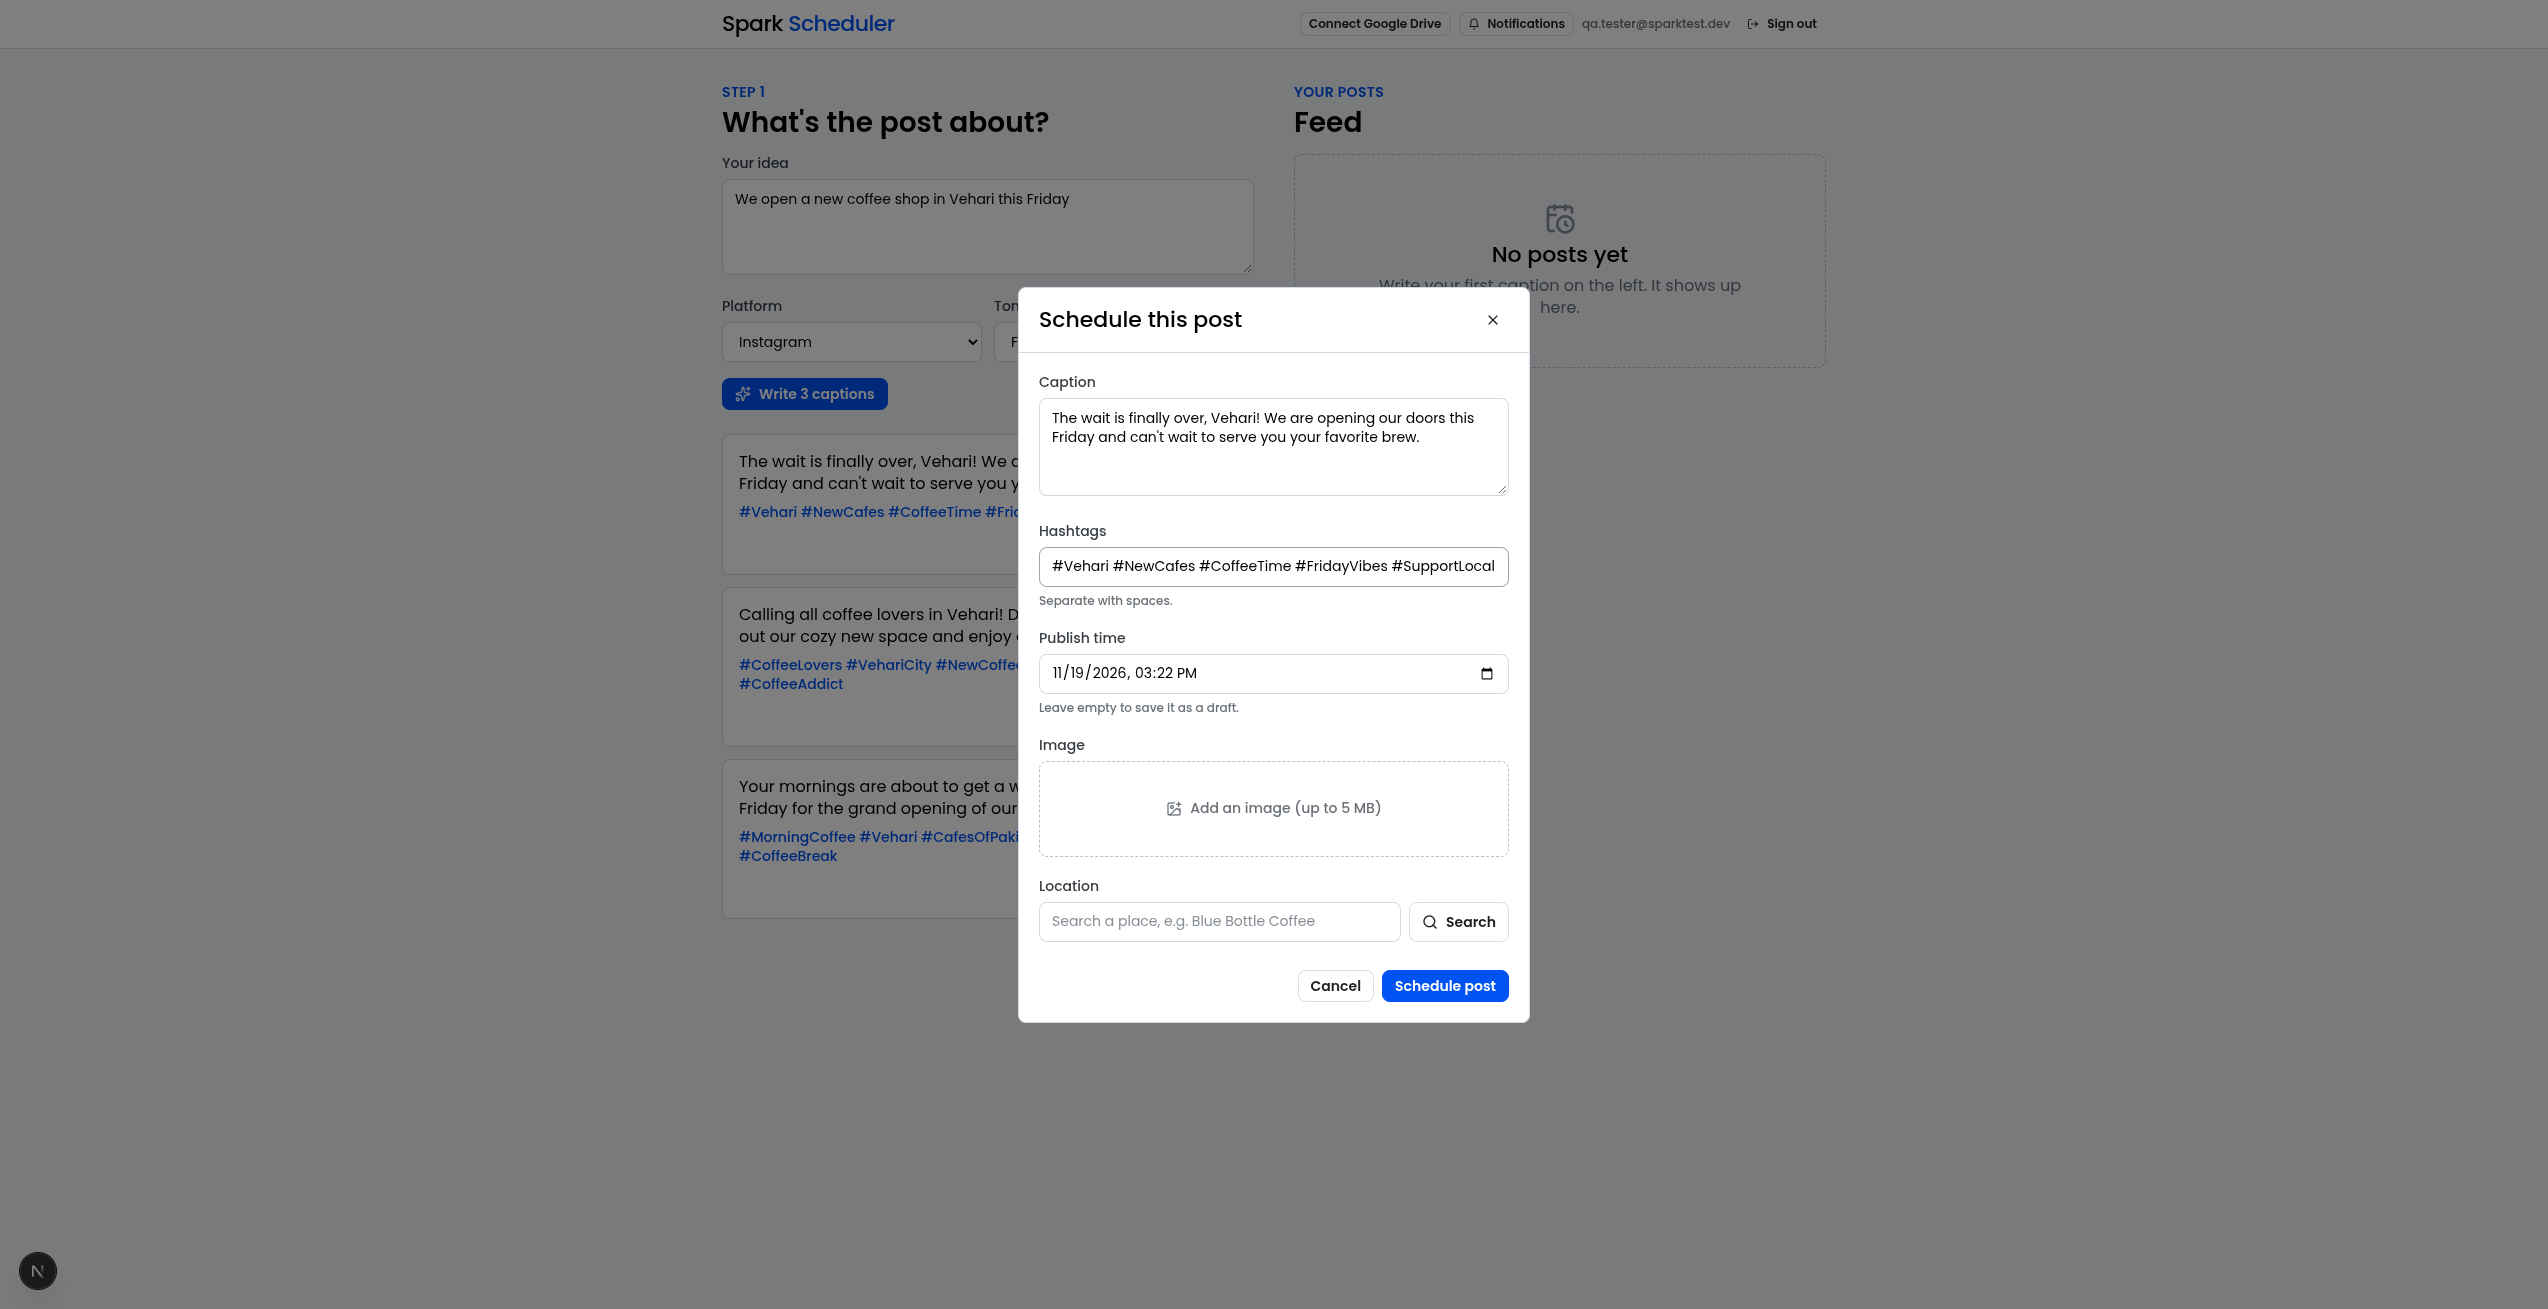
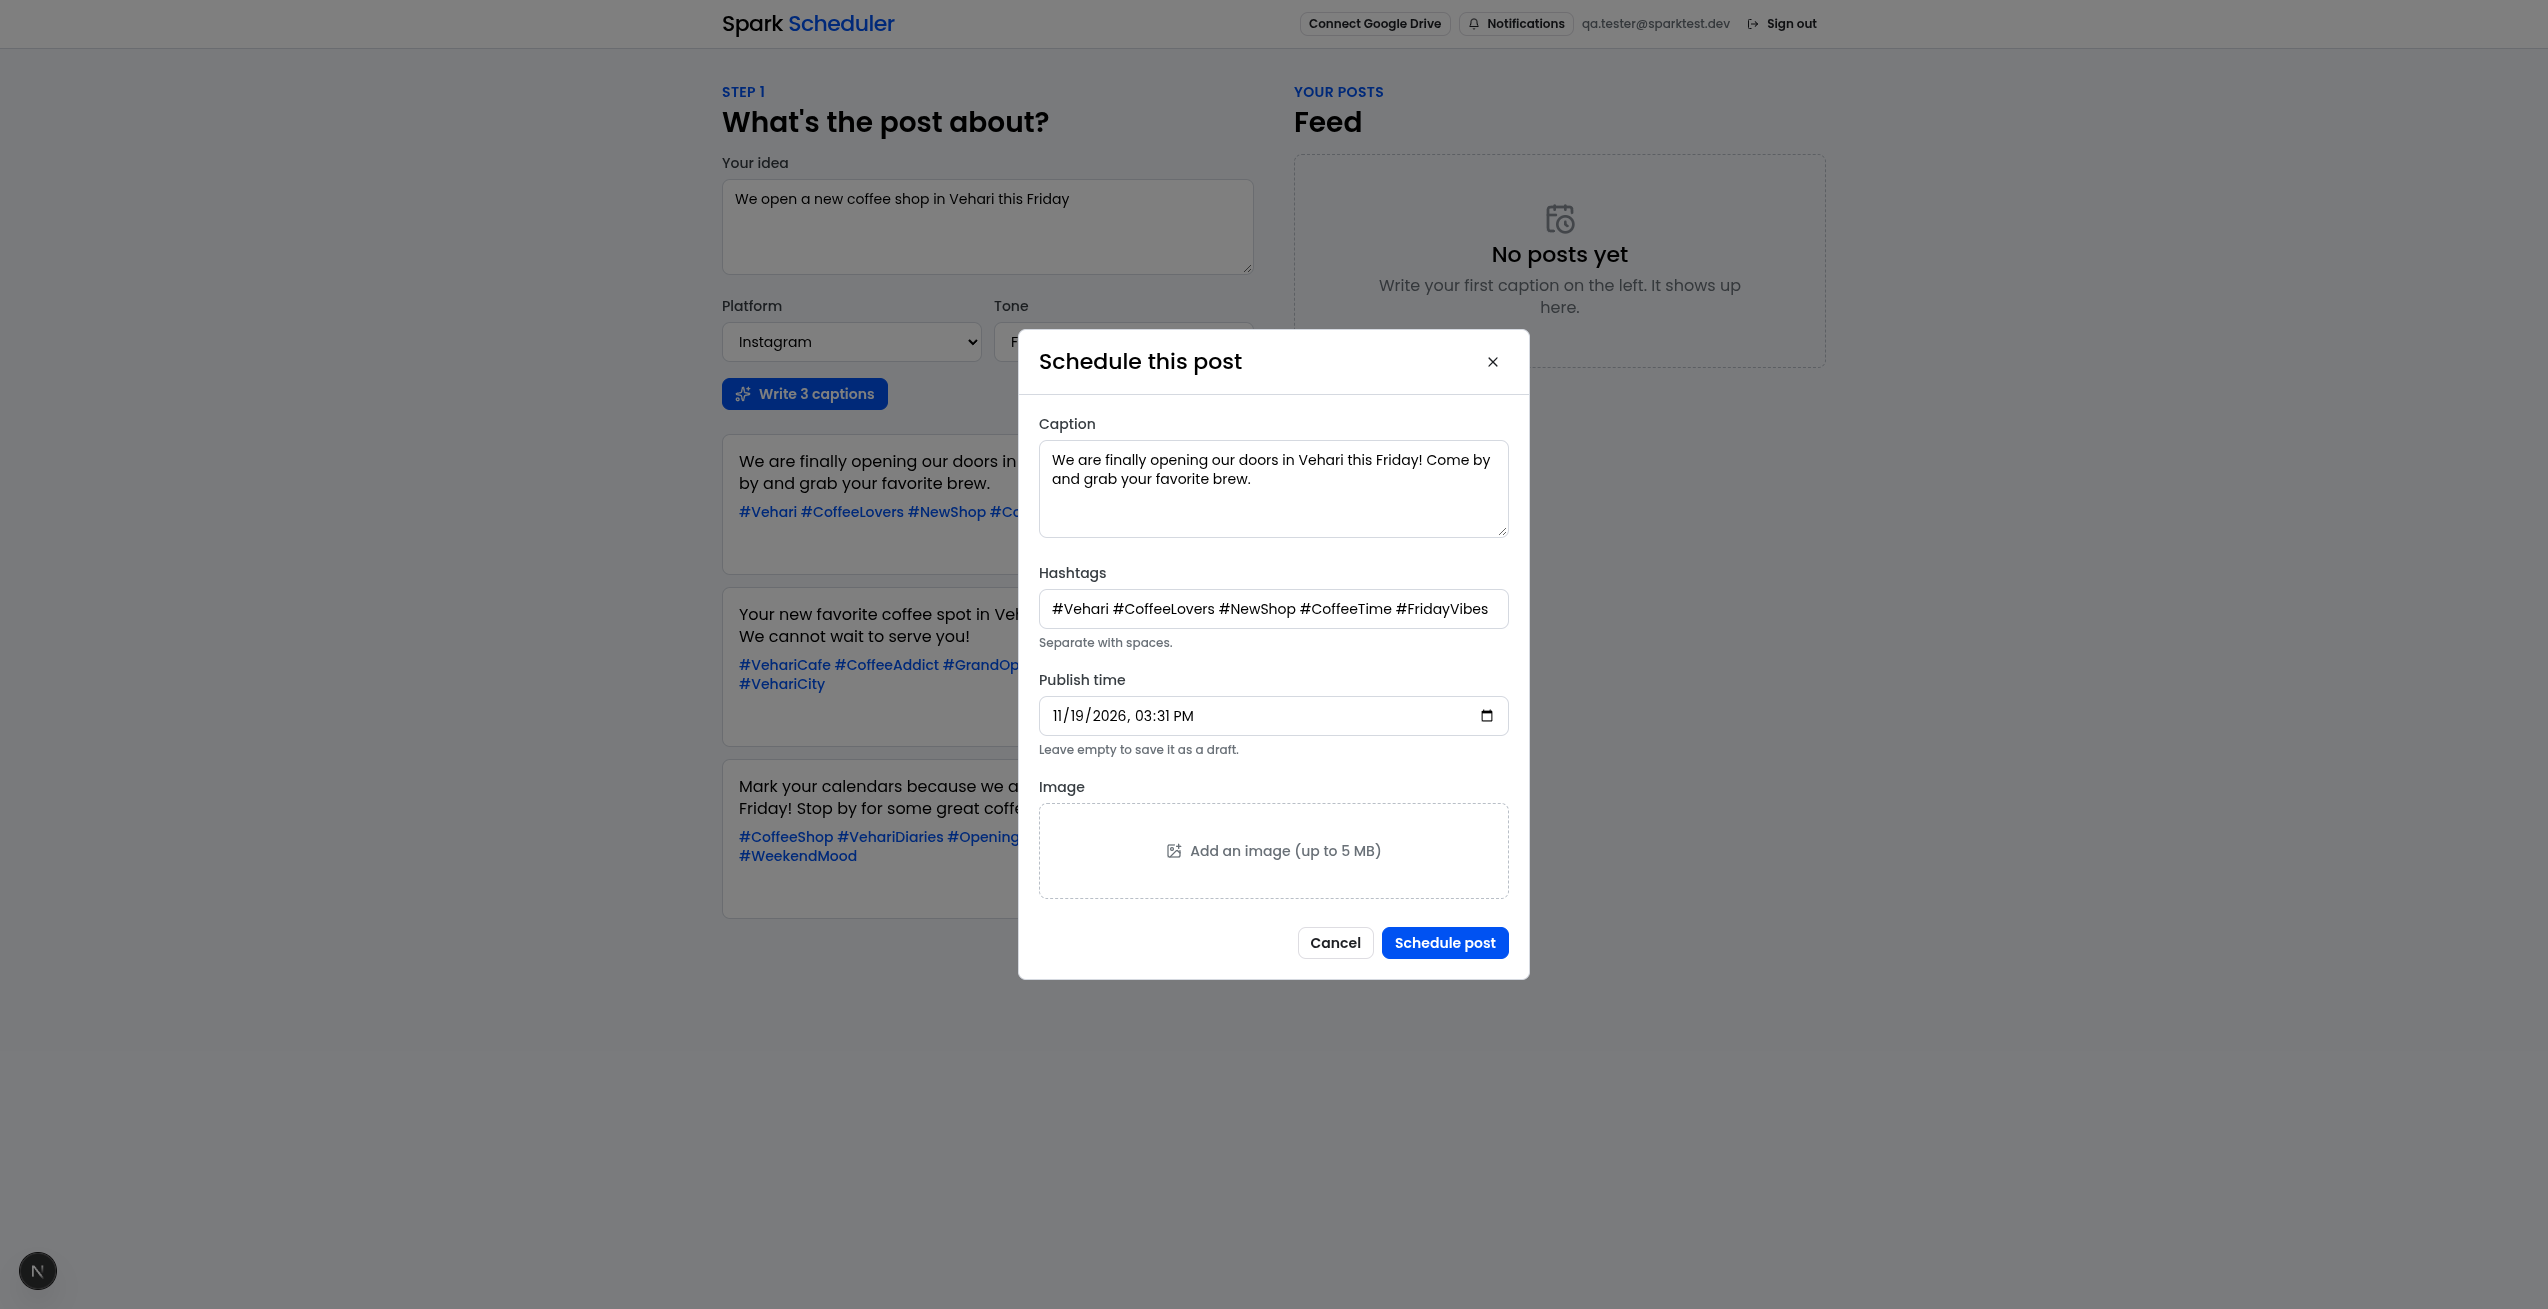
feat: remove Google Maps location feature; fix .env.example; add screenshots; update docs

diff --git a/docs/PLAN.md b/docs/PLAN.md
@@ -51,7 +51,7 @@ plain, no "powerful/seamless/leverage"). We do not reuse the Amplitude logo; the
 1. Foundation: deps, env, design tokens, UI kit, Supabase clients, SQL migration
 2. Auth: signup/login/Google, callback (stores Drive tokens), middleware route protection
 3. Generator: Gemini route + UI
-4. Posts: CRUD, schedule dialog, Drive sync, image upload, Maps location
+4. Posts: CRUD, schedule dialog, Drive sync, image upload
 5. Notifications: settings UI, mailer, cron, test send
 6. Polish, README + screenshots, env on Vercel, deploy, verify
 
